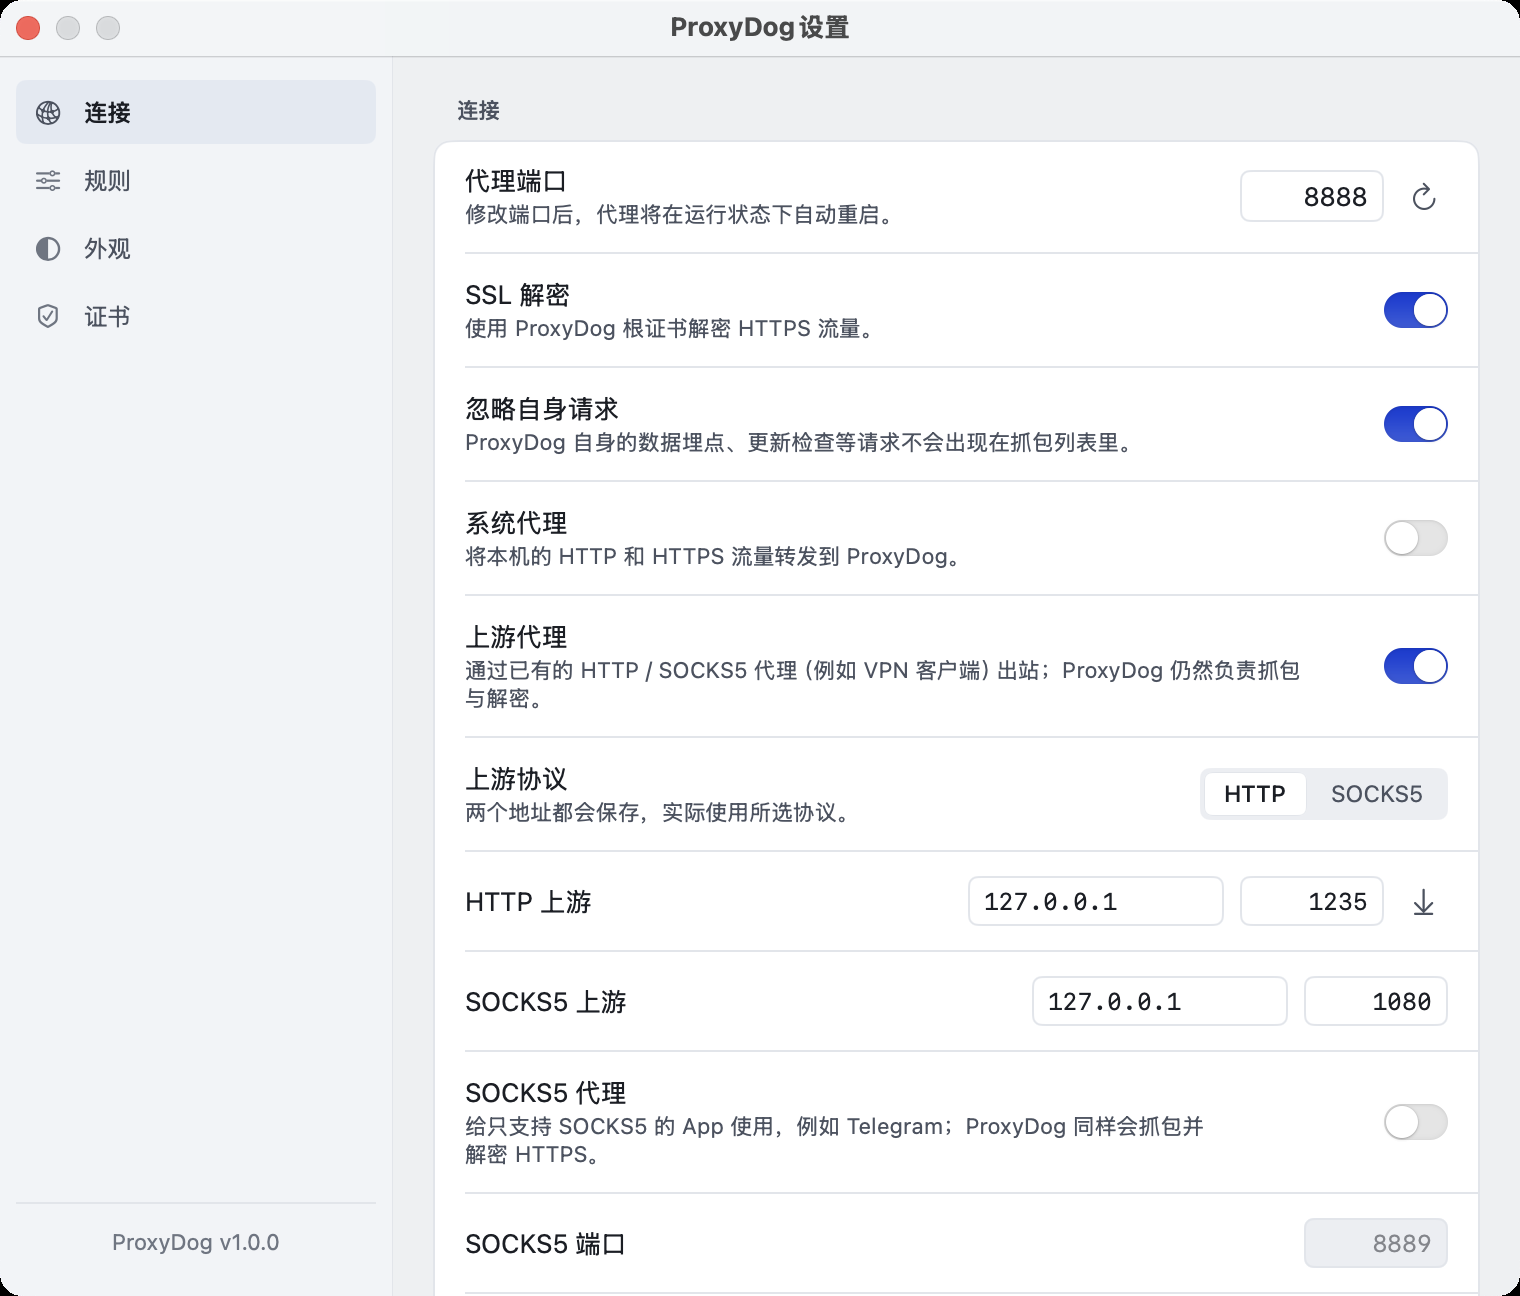
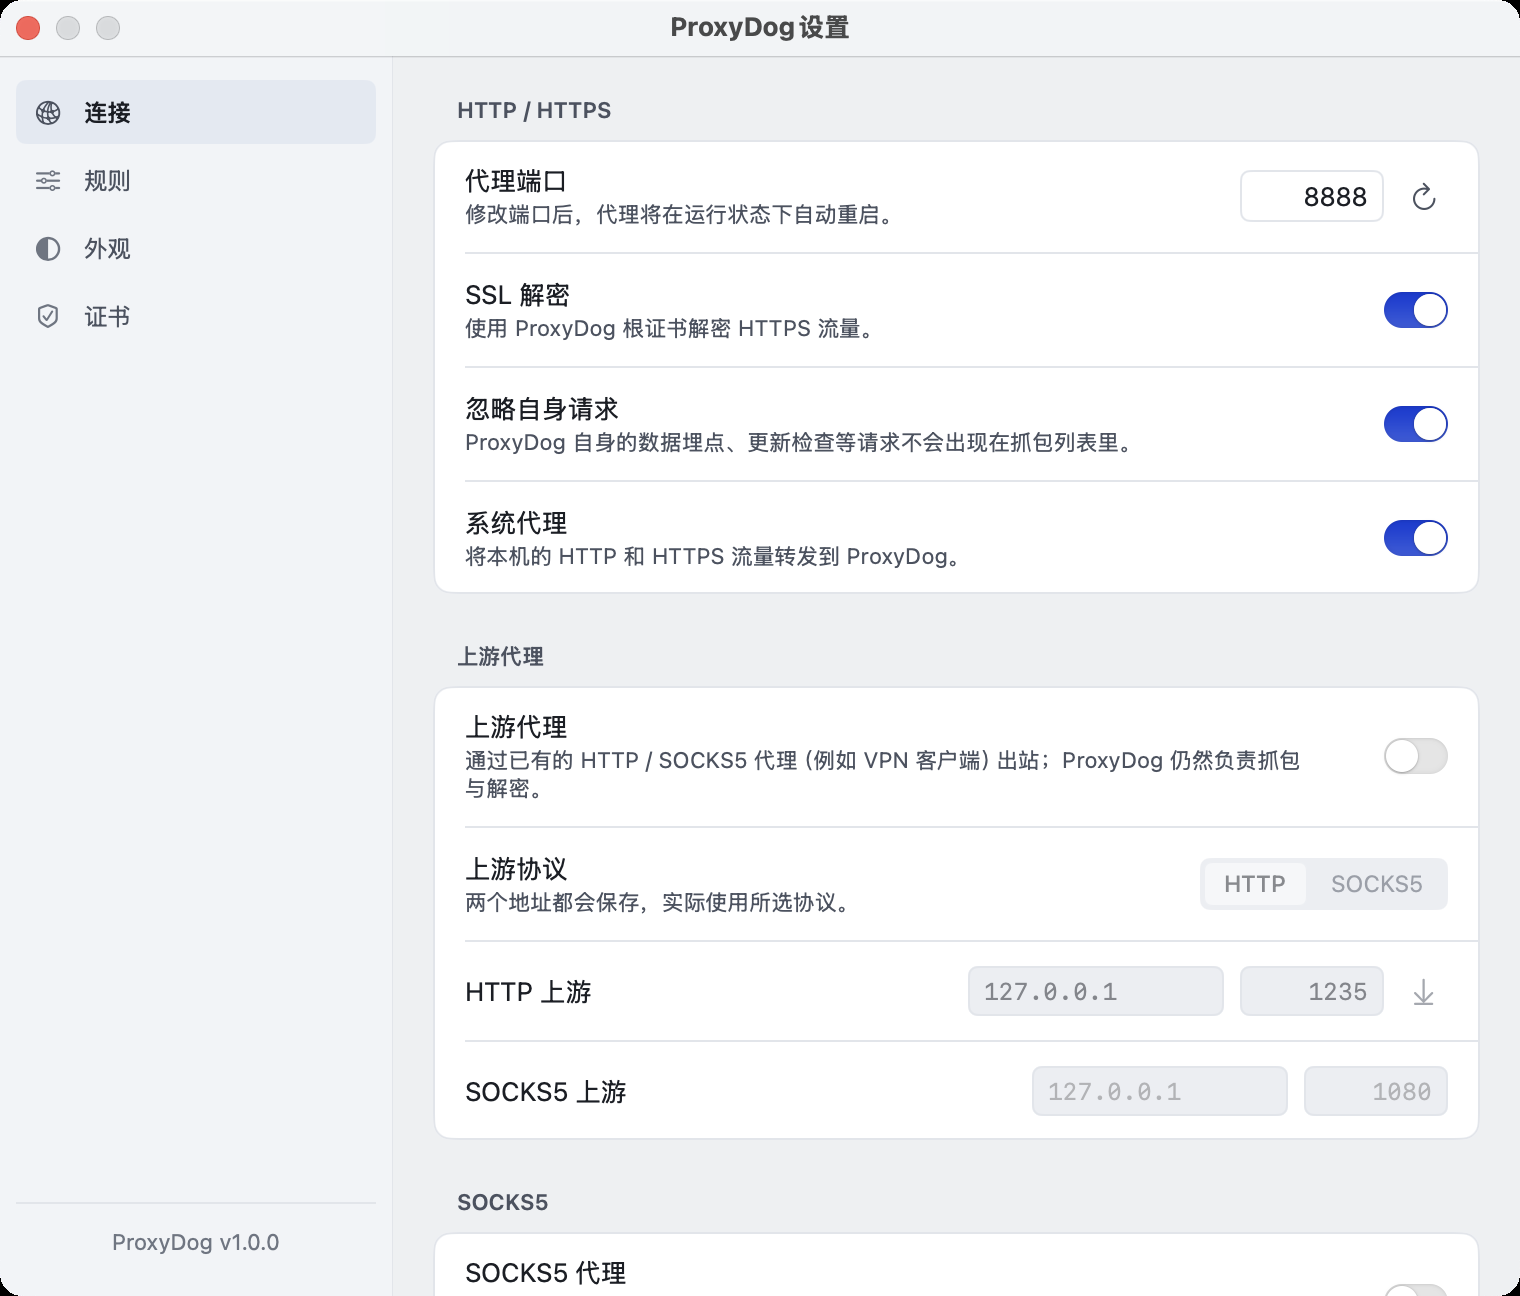
Split the connection settings page into HTTP, upstream, SOCKS5 and status cards

diff --git a/Sources/ProxyDog/UI/SettingsView.swift b/Sources/ProxyDog/UI/SettingsView.swift
@@ -186,7 +186,8 @@ struct SettingsView: View {
     }
 
     private var connectionSection: some View {
-        SettingsSection(title: "Connection") {
+        VStack(alignment: .leading, spacing: DS.Space.x6) {
+            SettingsSection(title: "HTTP / HTTPS") {
             SettingsRow(
                 title: "Proxy port",
                 hint: "Changing the port restarts the proxy when it is running.",
@@ -270,7 +271,8 @@ struct SettingsView: View {
                 .disabled(!state.isProxyRunning)
                 .accessibilityLabel("Set as System Proxy")
             }
-            SettingsHairline()
+            }
+            SettingsSection(title: "Upstream proxy") {
             SettingsRow(
                 title: "Upstream proxy",
                 hint: "Sends outbound traffic through an existing HTTP proxy such as a VPN client. ProxyDog still captures and decrypts."
@@ -389,7 +391,8 @@ struct SettingsView: View {
                         .disabled(!settings.upstreamProxyEnabled)
                 }
             }
-            SettingsHairline()
+            }
+            SettingsSection(title: "SOCKS5") {
             SettingsRow(
                 title: "SOCKS5 proxy",
                 hint: "For apps that only speak SOCKS5, e.g. Telegram. ProxyDog captures and decrypts the traffic the same way."
@@ -429,7 +432,8 @@ struct SettingsView: View {
                     }
                     .disabled(!socksAddressAvailable)
             }
-            SettingsHairline()
+            }
+            SettingsSection(title: "Status") {
             SettingsRow(
                 title: "Proxy status",
                 hint: "Listens on the loopback interface only.",
@@ -452,6 +456,7 @@ struct SettingsView: View {
                         }
                     }
                 }
+            }
             }
         }
     }
